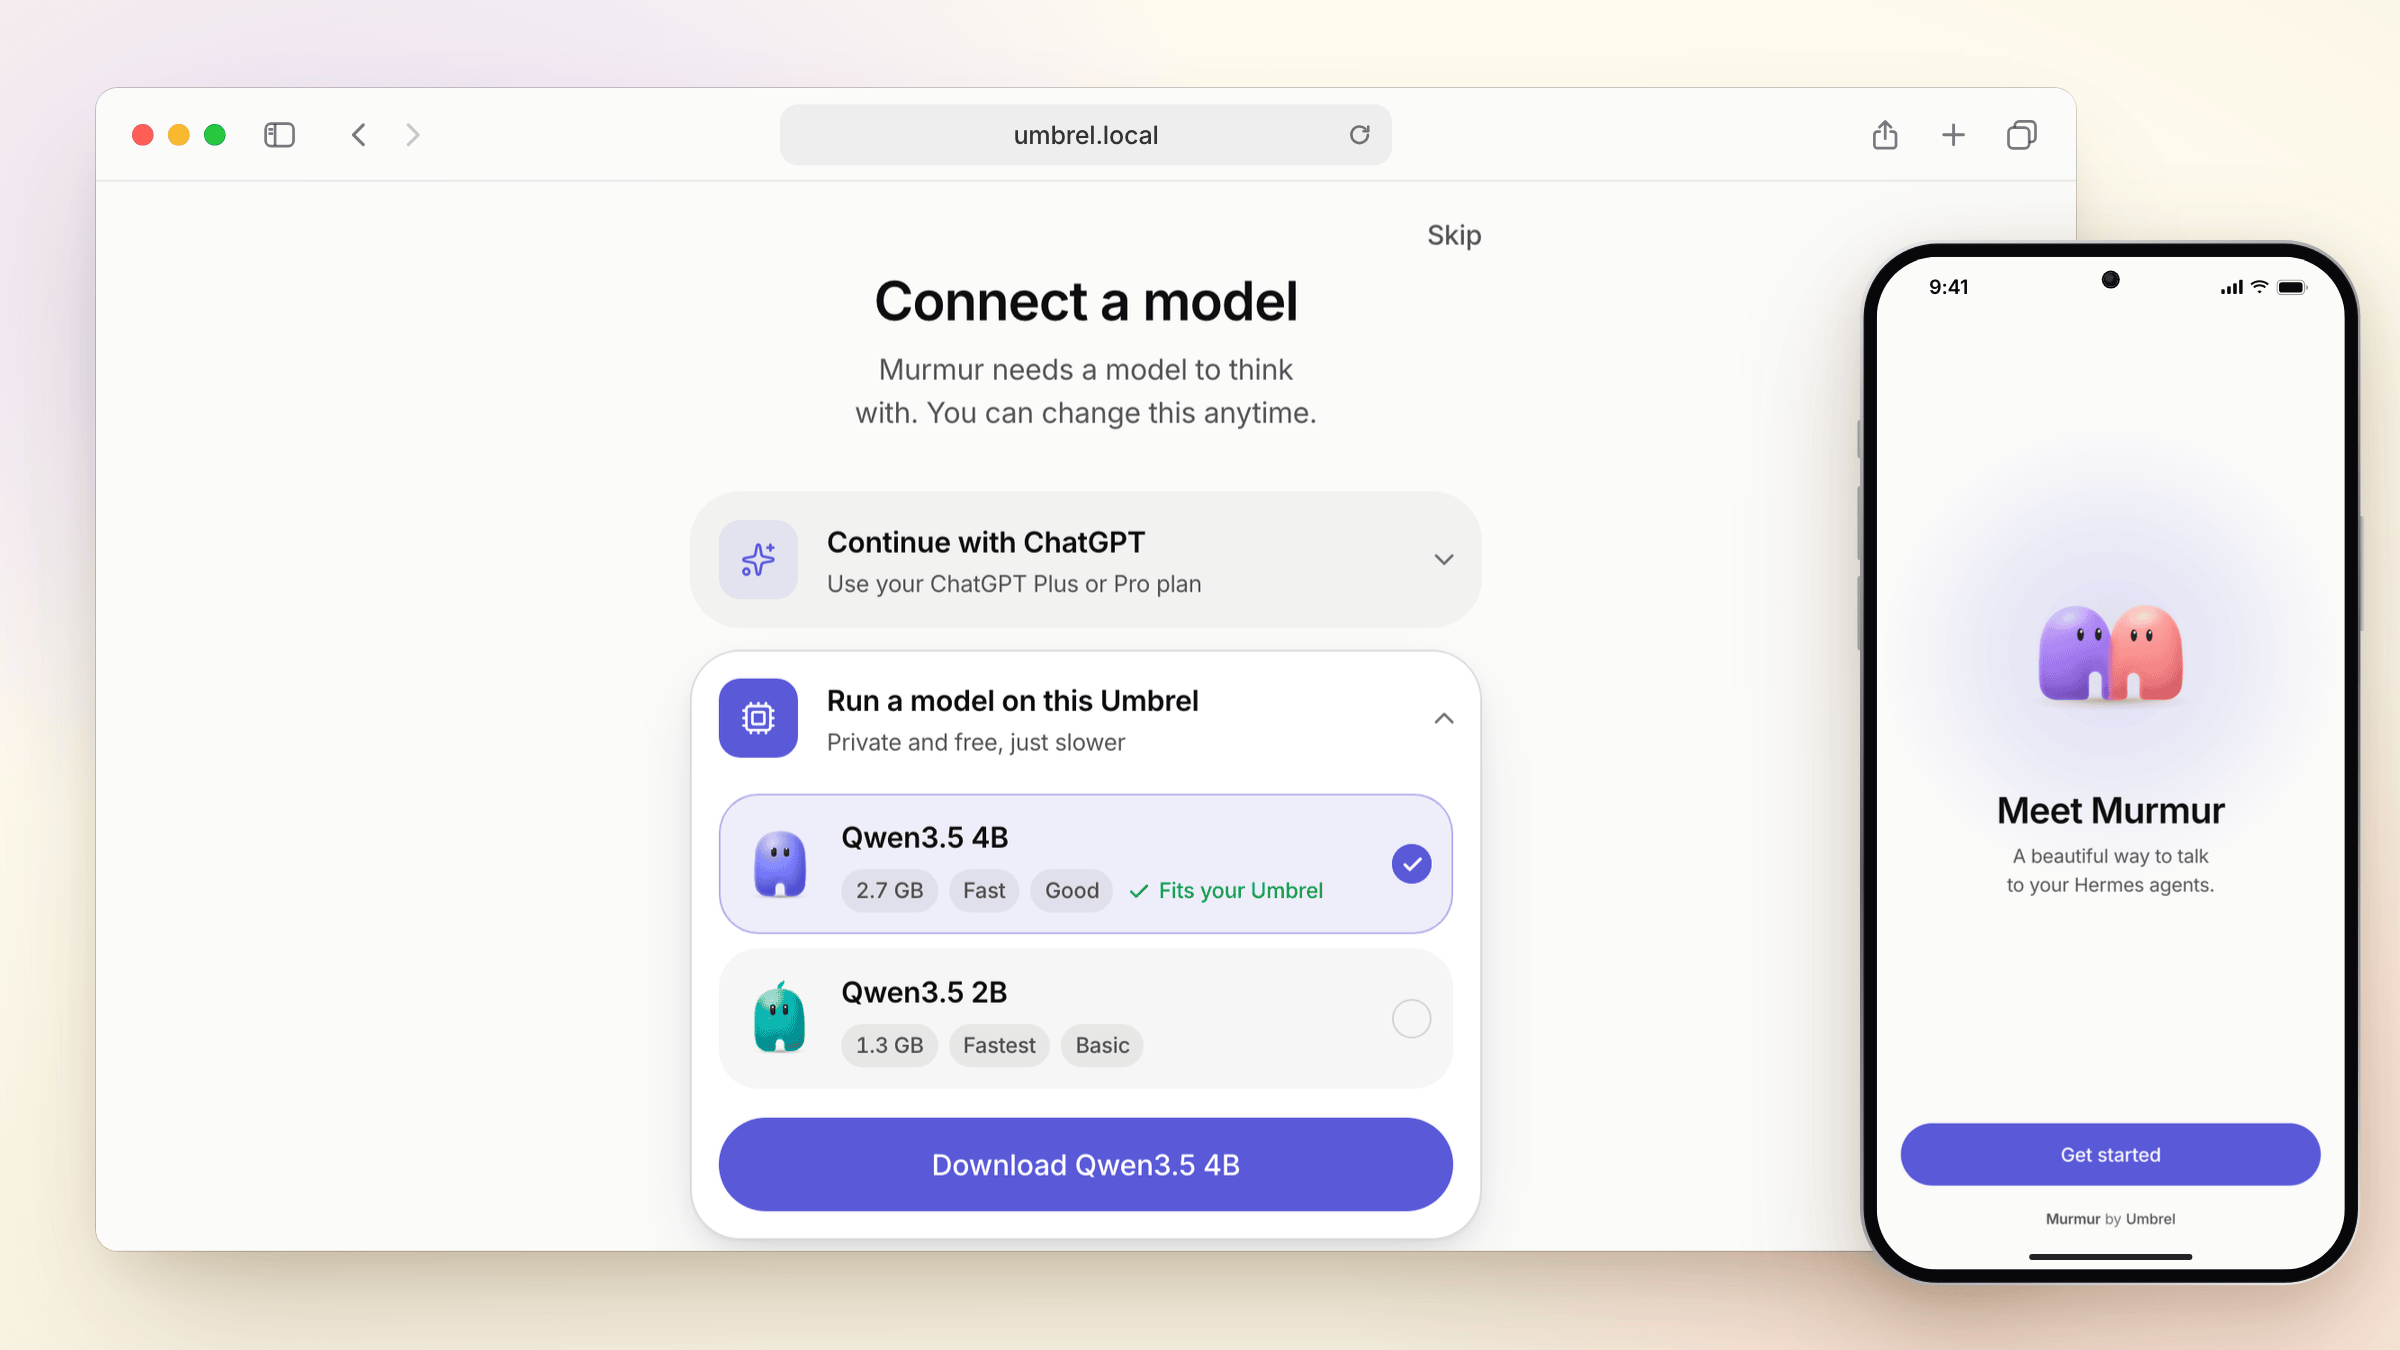
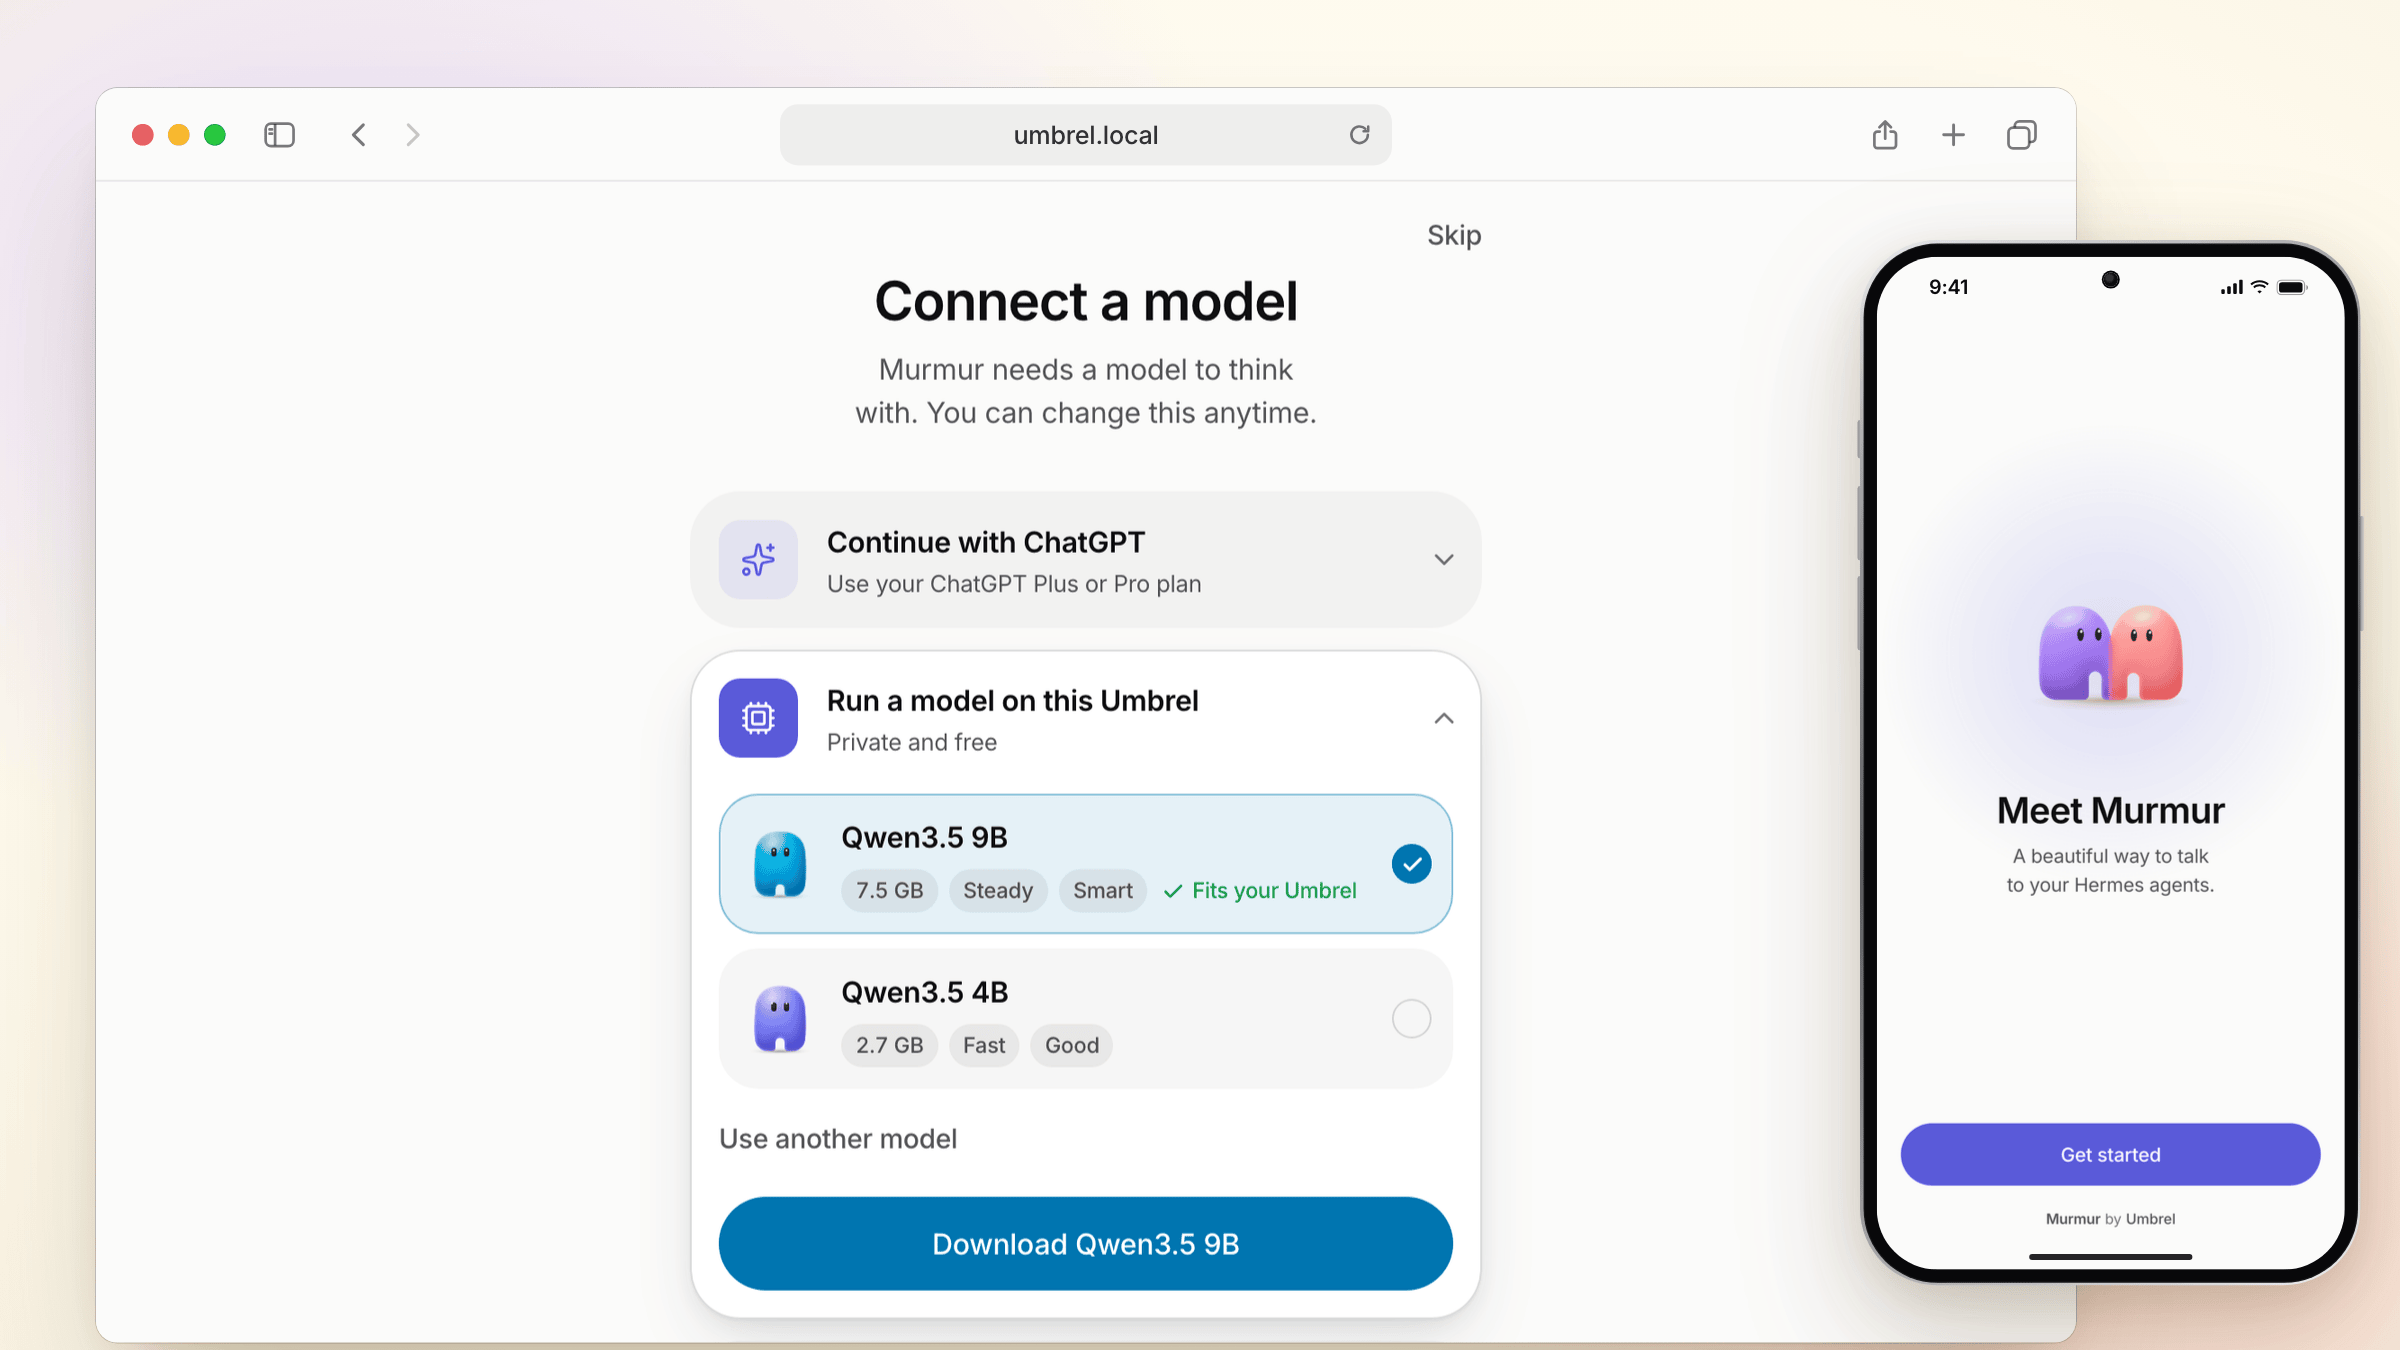
Start local models at Qwen3.5 4B
The 2B isn't good enough to be an agent's brain, so the smallest model
Murmur suggests is now the 4B. Machines with too little free memory for it
get no suggestion rather than a weak one, and can still pick any model
by name.

diff --git a/src/state/local-tiers.test.ts b/src/state/local-tiers.test.ts
@@ -34,43 +34,45 @@ describe('the window Hermes starts at, in RAM', () => {
   const pick = (id: string) => PICKS.find((p) => p.id === id)!
 
   it('narrows to what’s free, never below 64K, as Umbrel’s Hermes image does', () => {
-    expect(startWindow(pick('qwen3.5-2b'), cpu(3))).toBe(64 * 1024)
-    expect(startWindow(pick('qwen3.5-2b'), cpu(8))).toBe(144 * 1024)
+    expect(startWindow(pick('qwen3.5-4b'), cpu(3))).toBe(64 * 1024)
     expect(startWindow(pick('qwen3.5-4b'), cpu(8))).toBe(64 * 1024)
     expect(startWindow(pick('qwen3.5-9b'), cpu(3))).toBe(64 * 1024)
   })
 
   it('climbs to the model’s own 256K when there’s room', () => {
-    expect(startWindow(pick('qwen3.5-2b'), cpu(30, 32))).toBe(256 * 1024)
+    expect(startWindow(pick('qwen3.5-4b'), cpu(30, 32))).toBe(256 * 1024)
   })
 
-  it('holds the weights, the whole q8 window and llama.cpp’s buffers: the 2B at 64K is the 2.4–2.6 GB measured', () => {
-    const twoB = pick('qwen3.5-2b')
-    expect(held(twoB, cpu(3))).toBe(twoB.weights + 12288 * 65536 * (34 / 64) + 18 * 4 * 2 ** 20 + 0.8 * GB)
-    expect(held(twoB, cpu(3)) / GB).toBeCloseTo(2.58, 2)
+  it('holds the weights, the whole q8 window and llama.cpp’s buffers', () => {
+    const fourB = pick('qwen3.5-4b')
+    expect(held(fourB, cpu(3))).toBe(
+      fourB.weights + fourB.kvPerToken * 65536 * (34 / 64) + fourB.recurrentLayers * 4 * 2 ** 20 + 0.8 * GB,
+    )
+    expect(held(fourB, cpu(3)) / GB).toBeCloseTo(4.78, 2)
   })
 })
 
 describe('what to offer', () => {
-  it('a busy 16 GB Umbrel with about 3 GB free: the 2B at 64K, and says it’s tight', () => {
-    const { offers, tight } = offersFor(cpu(3))
-    expect(offers.map((o) => o.pick.id)).toEqual(['qwen3.5-2b'])
-    expect(offers[0]).toMatchObject({ recommended: true, fits: false, speed: 'Fastest' })
-    expect(tight).toEqual({ free: 3 * GB })
+  it('a busy 16 GB Umbrel with 4 GB free or less: nothing, since even the 4B needs about 4.8', () => {
+    expect(offersFor(cpu(3))).toEqual({ offers: [], tight: null })
+    expect(offersFor(cpu(4))).toEqual({ offers: [], tight: null })
   })
 
-  it('a 16 GB Umbrel with 4 GB free: the 2B fits', () => {
-    expect(ids(cpu(4))).toEqual(['qwen3.5-2b'])
-    expect(offersFor(cpu(4)).tight).toBeNull()
+  it('a 16 GB Umbrel with 5 GB free: the 4B, and says it’s tight', () => {
+    const { offers, tight } = offersFor(cpu(5))
+    expect(offers.map((o) => o.pick.id)).toEqual(['qwen3.5-4b'])
+    expect(offers[0]).toMatchObject({ recommended: true, fits: false, speed: 'Fast' })
+    expect(tight).toEqual({ free: 5 * GB })
   })
 
-  it('a 16 GB Umbrel with room: the 4B, with the 2B as the quicker one', () => {
-    expect(ids(cpu(8))).toEqual(['qwen3.5-4b', 'qwen3.5-2b'])
+  it('a 16 GB Umbrel with room: the 4B', () => {
+    expect(ids(cpu(6))).toEqual(['qwen3.5-4b'])
+    expect(ids(cpu(8))).toEqual(['qwen3.5-4b'])
     expect(offersFor(cpu(8)).tight).toBeNull()
   })
 
-  it('an 8 GB machine starts models at smaller windows, so the 4B fits in less', () => {
-    expect(ids(cpu(6, 8))).toEqual(['qwen3.5-4b', 'qwen3.5-2b'])
+  it('an 8 GB machine with 6 free: the 4B', () => {
+    expect(ids(cpu(6, 8))).toEqual(['qwen3.5-4b'])
   })
 
   it('plenty free, no graphics card: the 9B, never a slow 27B first', () => {

diff --git a/src/state/local-tiers.ts b/src/state/local-tiers.ts
@@ -62,21 +62,6 @@ export type ModelPick = {
 
 export const PICKS: ModelPick[] = [
   {
-    id: 'qwen3.5-2b',
-    name: 'Qwen3.5 2B',
-    line: 'qwen3.5-2b',
-    source: { repo: 'unsloth/Qwen3.5-2B-GGUF', file: 'Qwen3.5-2B-Q4_K_M.gguf' },
-    bytes: 1_280_835_840,
-    weights: 1_280_835_840,
-    // 6 of 24 layers attend, 2 KV heads × (256 + 256) dims × 2 bytes.
-    kvPerToken: 6 * 2048,
-    recurrentLayers: 18,
-    rank: 1,
-    smarts: 'Basic',
-    speed: { cpu: 'Fastest', gpu: 'Fastest' },
-    hue: 192,
-  },
-  {
     id: 'qwen3.5-4b',
     name: 'Qwen3.5 4B',
     line: 'qwen3.5-4b',
@@ -214,7 +199,7 @@ export const usable = (hw: Hardware) => (hw.uma ? hw.vramUsable : hw.vramUsable 
 // - The window it starts at. Hermes climbs its ladder (64K, 96K, 144K, 216K,
 //   the model's own 256K) as far as its estimate fits 80% of the RAM the
 //   machine has (hardware.probe_budget(planning=True)). Upstream stops there,
-//   so a 16 GB machine starts the 2B and 4B at 256K however little is free.
+//   so a 16 GB machine starts the 4B at 256K however little is free.
 //   Umbrel's image (hermes-agent-umbrel v0.22.0-3, which Murmur ships) also
 //   narrows unified memory to 80% of what's free, never below 64K, and grows
 //   the window again when memory frees up.

diff --git a/src/features/onboarding/playground.tsx b/src/features/onboarding/playground.tsx
@@ -60,10 +60,10 @@ const SERVERS = [
 
 const EMPTY_OLLAMA = [{ name: 'Ollama', baseUrl: 'http://ollama_ollama_1:11434/v1', models: [] }]
 
-// What Hermes's hardware answer turns into on a 16 GB Umbrel with about 8 GB free (local-tiers.ts).
+// What Hermes's hardware answer turns into on a 16 GB Umbrel with about 12 GB free (local-tiers.ts).
 const DEVICE_MODELS: DeviceModel[] = [
-  { id: 'qwen3.5-4b', name: 'Qwen3.5 4B', bytes: 2_740_937_888, speed: 'Fast', smarts: 'Good', hue: 278, recommended: true, fits: true, downloaded: false },
-  { id: 'qwen3.5-2b', name: 'Qwen3.5 2B', bytes: 1_280_835_840, speed: 'Fastest', smarts: 'Basic', hue: 192, recommended: false, fits: true, downloaded: false },
+  { id: 'qwen3.5-9b-q6', name: 'Qwen3.5 9B', bytes: 7_458_301_152, speed: 'Steady', smarts: 'Smart', hue: 222, recommended: true, fits: true, downloaded: false },
+  { id: 'qwen3.5-4b', name: 'Qwen3.5 4B', bytes: 2_740_937_888, speed: 'Fast', smarts: 'Good', hue: 278, recommended: false, fits: true, downloaded: false },
 ]
 
 // Models typed in by name, as Hermes's file list and the same machine turn them into cards (local-hf.ts).

diff --git a/src/state/local-hf.test.ts b/src/state/local-hf.test.ts
@@ -250,12 +250,12 @@ describe('fit', () => {
   })
 
   it('says what it really needs when it’s too big', () => {
-    const c = pickFile([one('Qwen3.5-2B-Q4_K_M.gguf', 1_280_835_840)], { repo: 'unsloth/Qwen3.5-2B-GGUF' }, cpu(2))
-    const model = hfModel('unsloth/Qwen3.5-2B-GGUF', c as Extract<typeof c, { group: unknown }>, cpu(2), new Set())
+    const c = pickFile([one('Qwen3.5-4B-Q4_K_M.gguf', 2_740_937_888)], { repo: 'unsloth/Qwen3.5-4B-GGUF' }, cpu(3))
+    const model = hfModel('unsloth/Qwen3.5-4B-GGUF', c as Extract<typeof c, { group: unknown }>, cpu(3), new Set())
     expect(model.hf.fit).toBe('too-big')
     expect(model.fits).toBe(false)
     // Sizes keep their unit on the same line (a no-break space).
-    expect(fitLine(model.hf).replace(/\s/g, ' ')).toBe('Needs about 2.6 GB of memory; 2.0 GB is free.')
+    expect(fitLine(model.hf).replace(/\s/g, ' ')).toBe('Needs about 4.8 GB of memory; 3.0 GB is free.')
   })
 
   it('with a graphics card, as Hermes reckons it', () => {

diff --git a/src/state/local-jobs.test.ts b/src/state/local-jobs.test.ts
@@ -67,7 +67,7 @@ describe('what Hermes says, as offers', () => {
   const status = {
     runtime_installed: true,
     active_model_id: null,
-    models: [{ id: 'Qwen3.5-2B-Q4_K_M', size_bytes: 1 }],
+    models: [{ id: 'Qwen3.5-4B-Q4_K_M', size_bytes: 1 }],
   }
   const hw = (free: number) => ({
     uma: true,
@@ -78,11 +78,11 @@ describe('what Hermes says, as offers', () => {
   })
 
   it('marks what’s already downloaded', () => {
-    // An 8 GB machine with 6 free: Hermes starts the 4B at 64K there.
-    const out = deviceModels(status, { ...hw(6e9), ram_total_bytes: 8e9 }, [])
+    // 12 GB free on 16: the 9B leads, and the 4B (already here) is the quicker one.
+    const out = deviceModels(status, hw(12e9), [])
     expect(out.models.map((m) => [m.id, m.downloaded, m.recommended])).toEqual([
-      ['qwen3.5-4b', false, true],
-      ['qwen3.5-2b', true, false],
+      ['qwen3.5-9b-q6', false, true],
+      ['qwen3.5-4b', true, false],
     ])
   })
 
